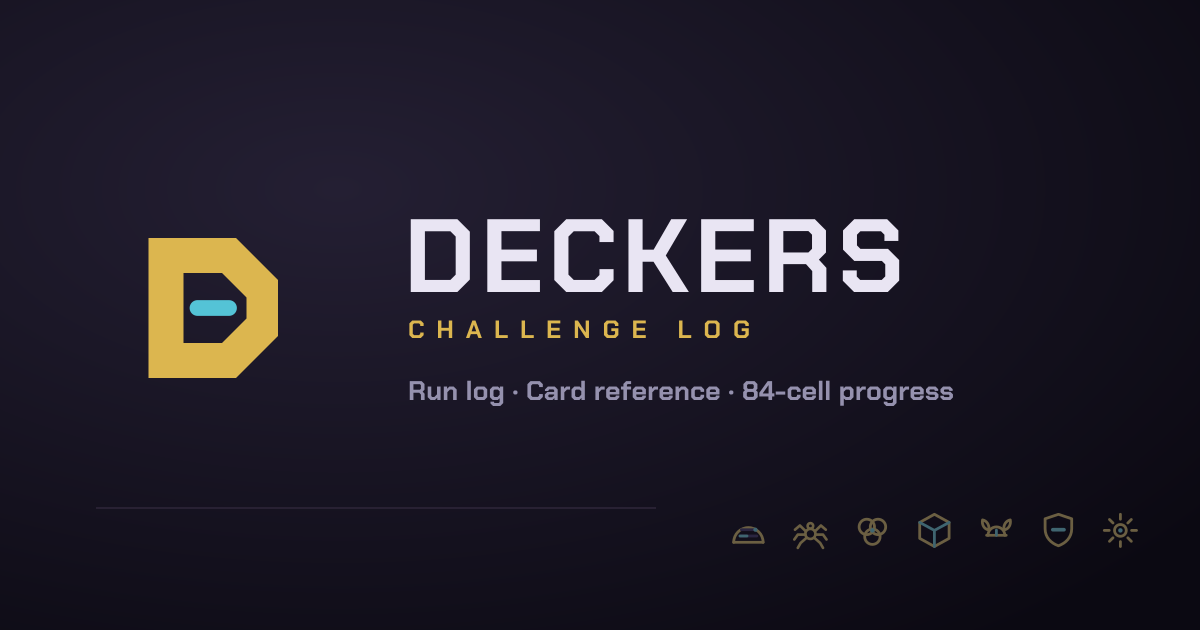
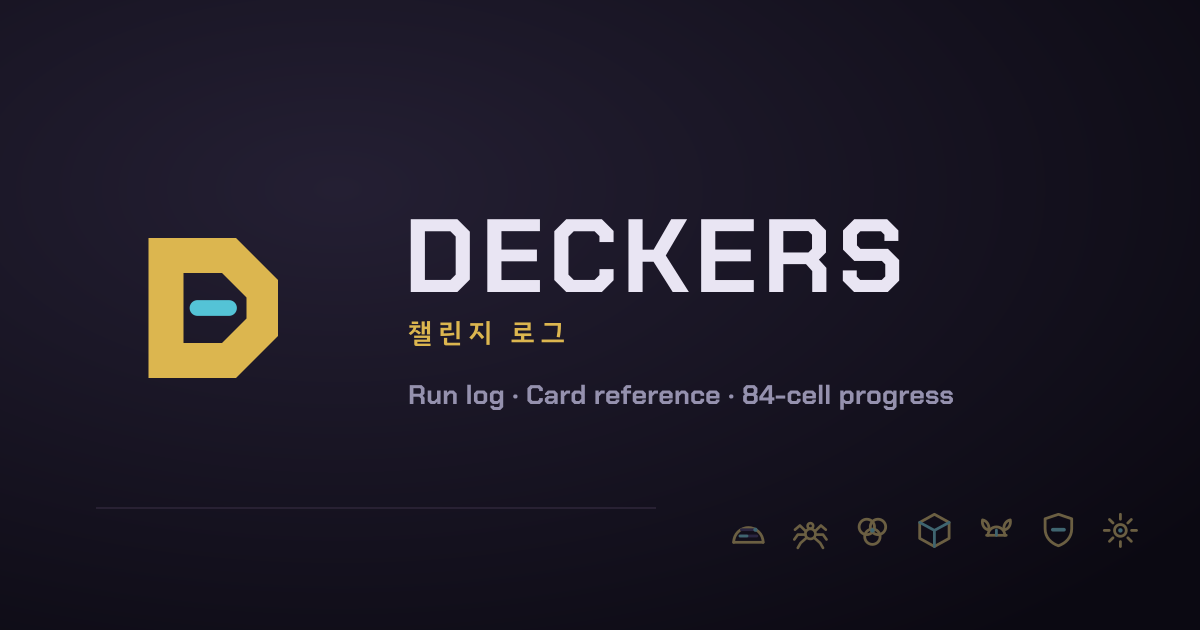
feat(brand): 공유 카드 부제와 탭 제목을 한국어로
og 이미지의 부제를 '챌린지 로그'로 바꾼다. 제품명(DECKERS)은 로마자로 두고
부제만 한국어 — 링크가 주로 오가는 곳이 한국어권이다. 한글은 Chakra Petch 에
글리프가 없어 앱이 쓰는 IBM Plex Sans KR 로 뽑았고, 역시 패스로 갖는다.

탭 제목은 index.html 의 <title> 이 정적이라 언어를 따라가지 못했다.
syncDocumentLang 이 <html lang> 만 맞추고 있었는데, 제목까지 맞추도록 넓히고
이름을 syncDocumentMeta 로 바꿨다. 탭을 여러 개 띄워두면 어느 것이 이 앱인지
한글 사용자에게는 안 잡혔다.

크롤러가 읽는 값은 여전히 index.html 쪽이다 — JS 실행 전에 읽으므로.

Claude-Session: https://claude.ai/code/session_01Txifz1Vf77iUd2GPgEcyNu

Changed region(s): [[0.3392, 0.6032, 0.8017, 0.6635], [0.3392, 0.5127, 0.6475, 0.5429]]

diff --git a/src/i18n/index.js b/src/i18n/index.js
@@ -41,14 +41,19 @@ export function setLocale(next) {
   if (!BUNDLES[next] || next === current) return
   current = next
   try { localStorage.setItem(STORAGE_KEY, next) } catch { /* 저장 못 해도 이번 세션은 동작 */ }
-  syncDocumentLang()
+  syncDocumentMeta()
   listeners.forEach((fn) => fn())
 }
 
 // <html lang> 을 맞춰두면 CSS에서 :lang(ko) 로 한글 전용 서체·자간을 덮어쓸 수 있고
 // 스크린 리더도 올바른 언어로 읽는다.
-export function syncDocumentLang() {
+//
+// 탭 제목도 함께 맞춘다. index.html 의 <title> 은 정적이라 언어를 따라가지 못했다 —
+// 탭을 여러 개 띄워두면 어느 것이 이 앱인지 한글 사용자에게는 안 잡힌다.
+// 크롤러가 보는 값은 여전히 index.html 쪽이다(JS 실행 전에 읽으므로).
+export function syncDocumentMeta() {
   document.documentElement.lang = current
+  document.title = t('app.title')
 }
 
 function subscribe(fn) {

diff --git a/src/main.jsx b/src/main.jsx
@@ -3,11 +3,11 @@ import ReactDOM from 'react-dom/client'
 import { HashRouter } from 'react-router-dom'
 import App from './App'
 import ErrorBoundary from './components/ErrorBoundary'
-import { syncDocumentLang } from './i18n'
+import { syncDocumentMeta } from './i18n'
 import './styles.css'
 
-// <html lang> 을 현재 언어로. CSS의 :lang(ko) 분기와 스크린 리더가 이 값을 본다.
-syncDocumentLang()
+// <html lang> 과 탭 제목을 현재 언어로. CSS의 :lang(ko) 분기와 스크린 리더가 lang 을 본다.
+syncDocumentMeta()
 
 // ErrorBoundary는 SyncProvider(App 안)보다 바깥에 둔다 — Provider가 터져도 잡히도록.
 ReactDOM.createRoot(document.getElementById('root')).render(
